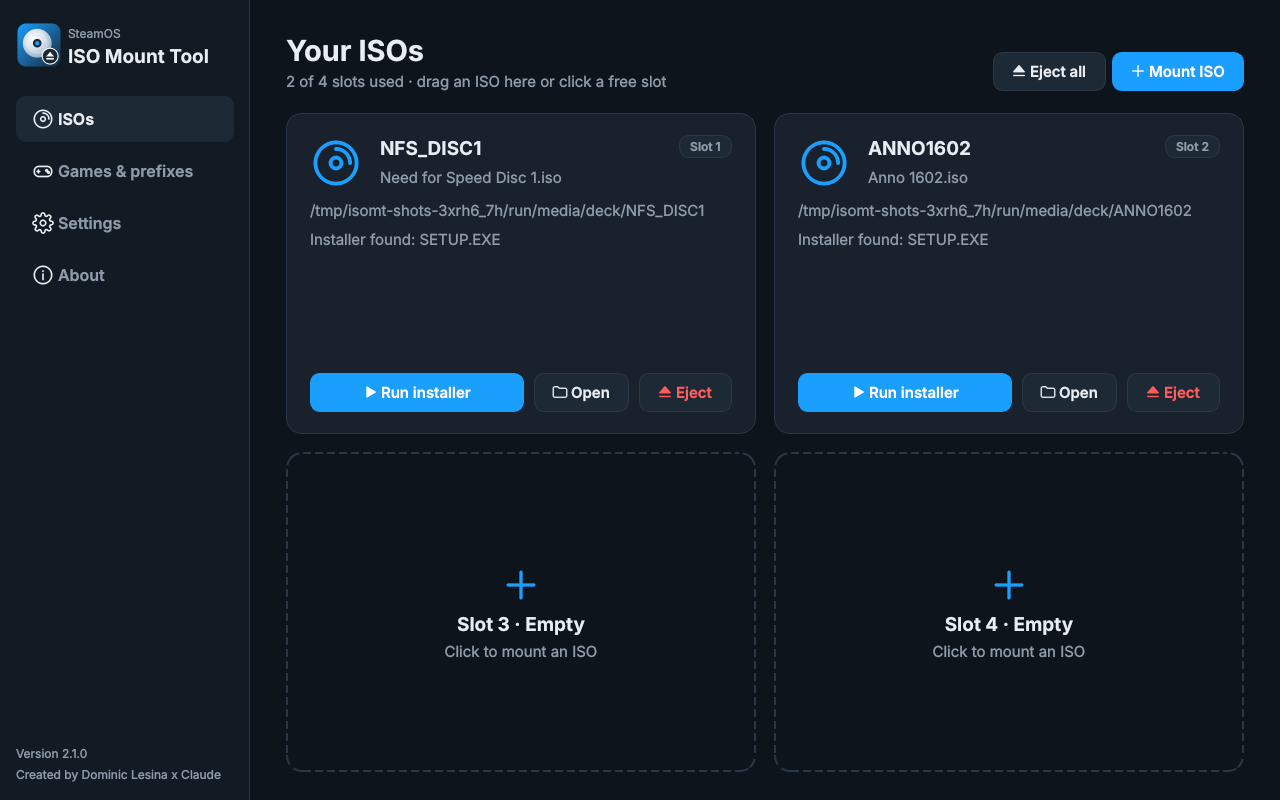
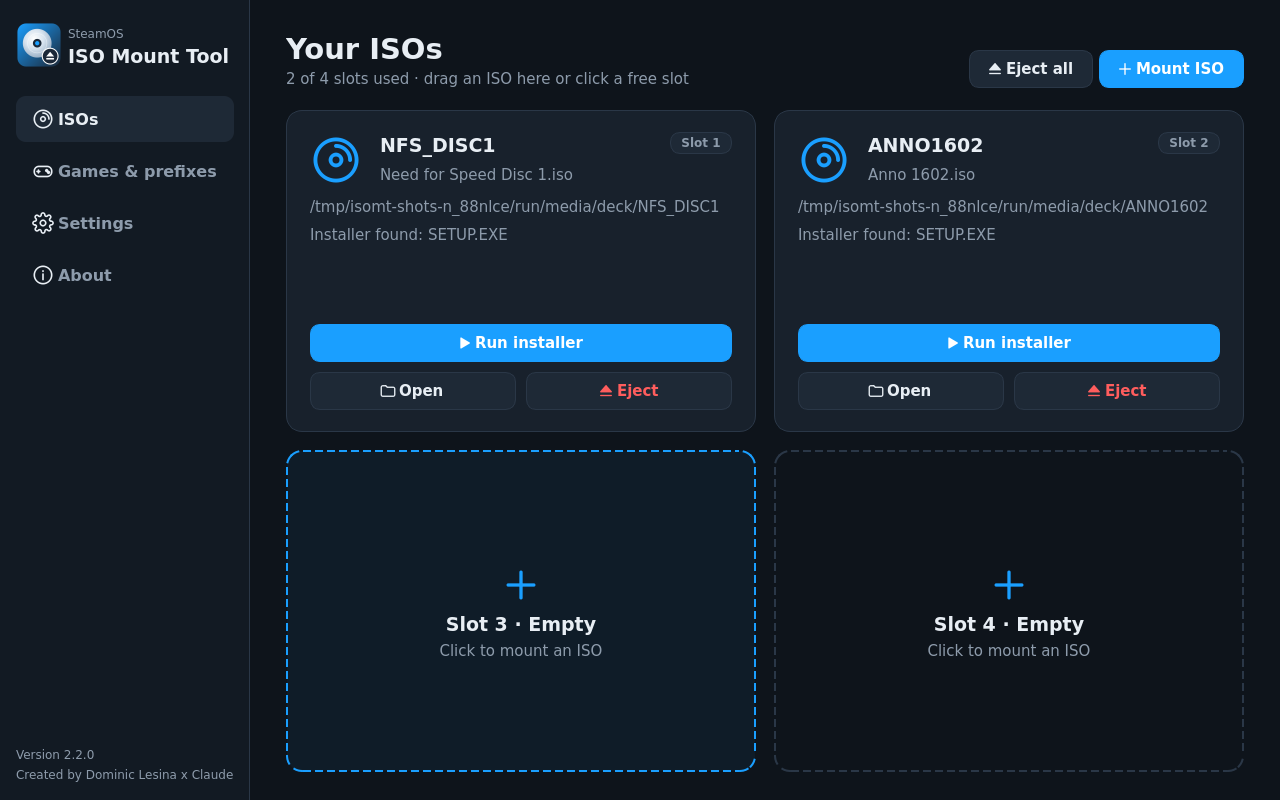
Release 2.2.0: Windows version, verified updates
Claude-Session: https://claude.ai/code/session_01C7fdTPdnkKPmWx4WZtynzN

diff --git a/README.md b/README.md
@@ -76,6 +76,8 @@ Logs of every run are stored in `~/.local/share/steamos-isomounttool/logs/`.
 
 ## Windows version
 
+<p align="center"><img src="docs/screenshot-windows.png" width="620" alt="Windows version"></p>
+
 The Windows version has the same interface with a few differences:
 
 - ISOs are mounted with Windows' built-in ISO support (like right-click → *Mount*); every ISO gets its real drive letter.
